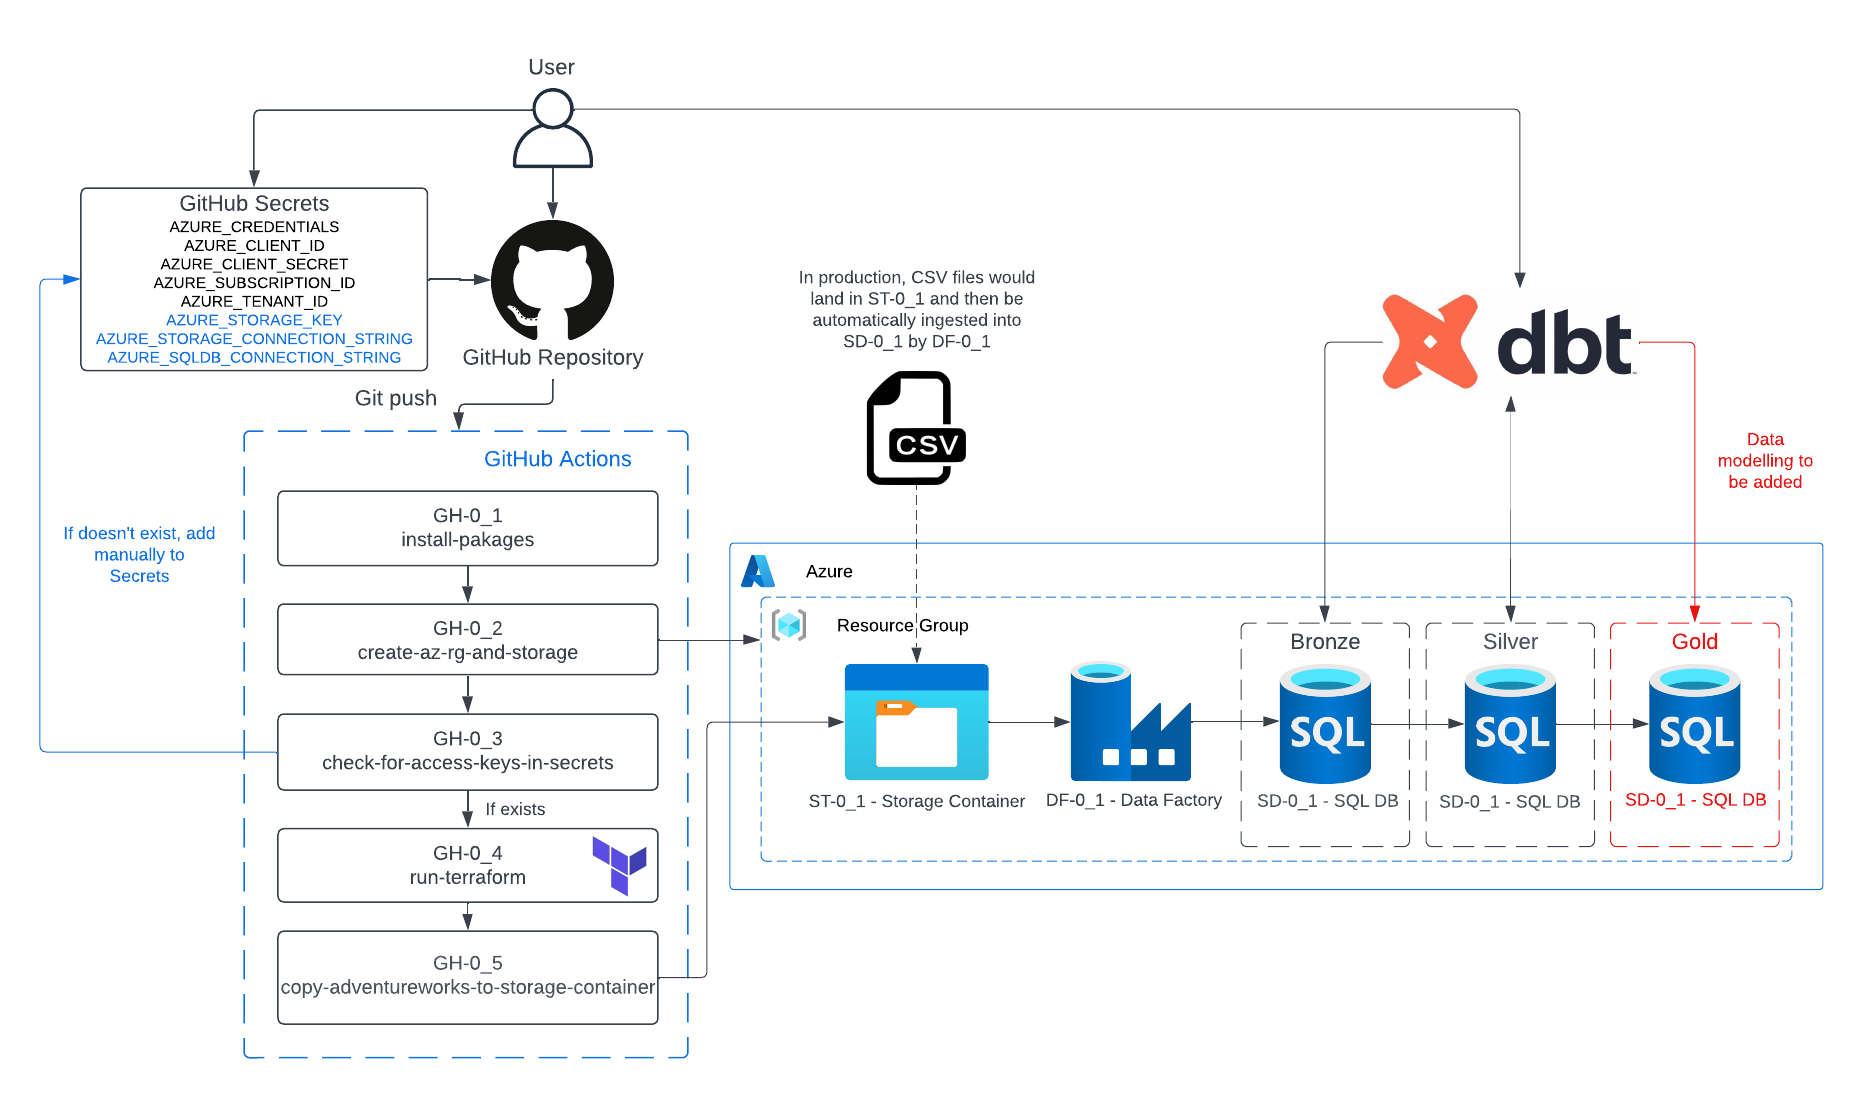
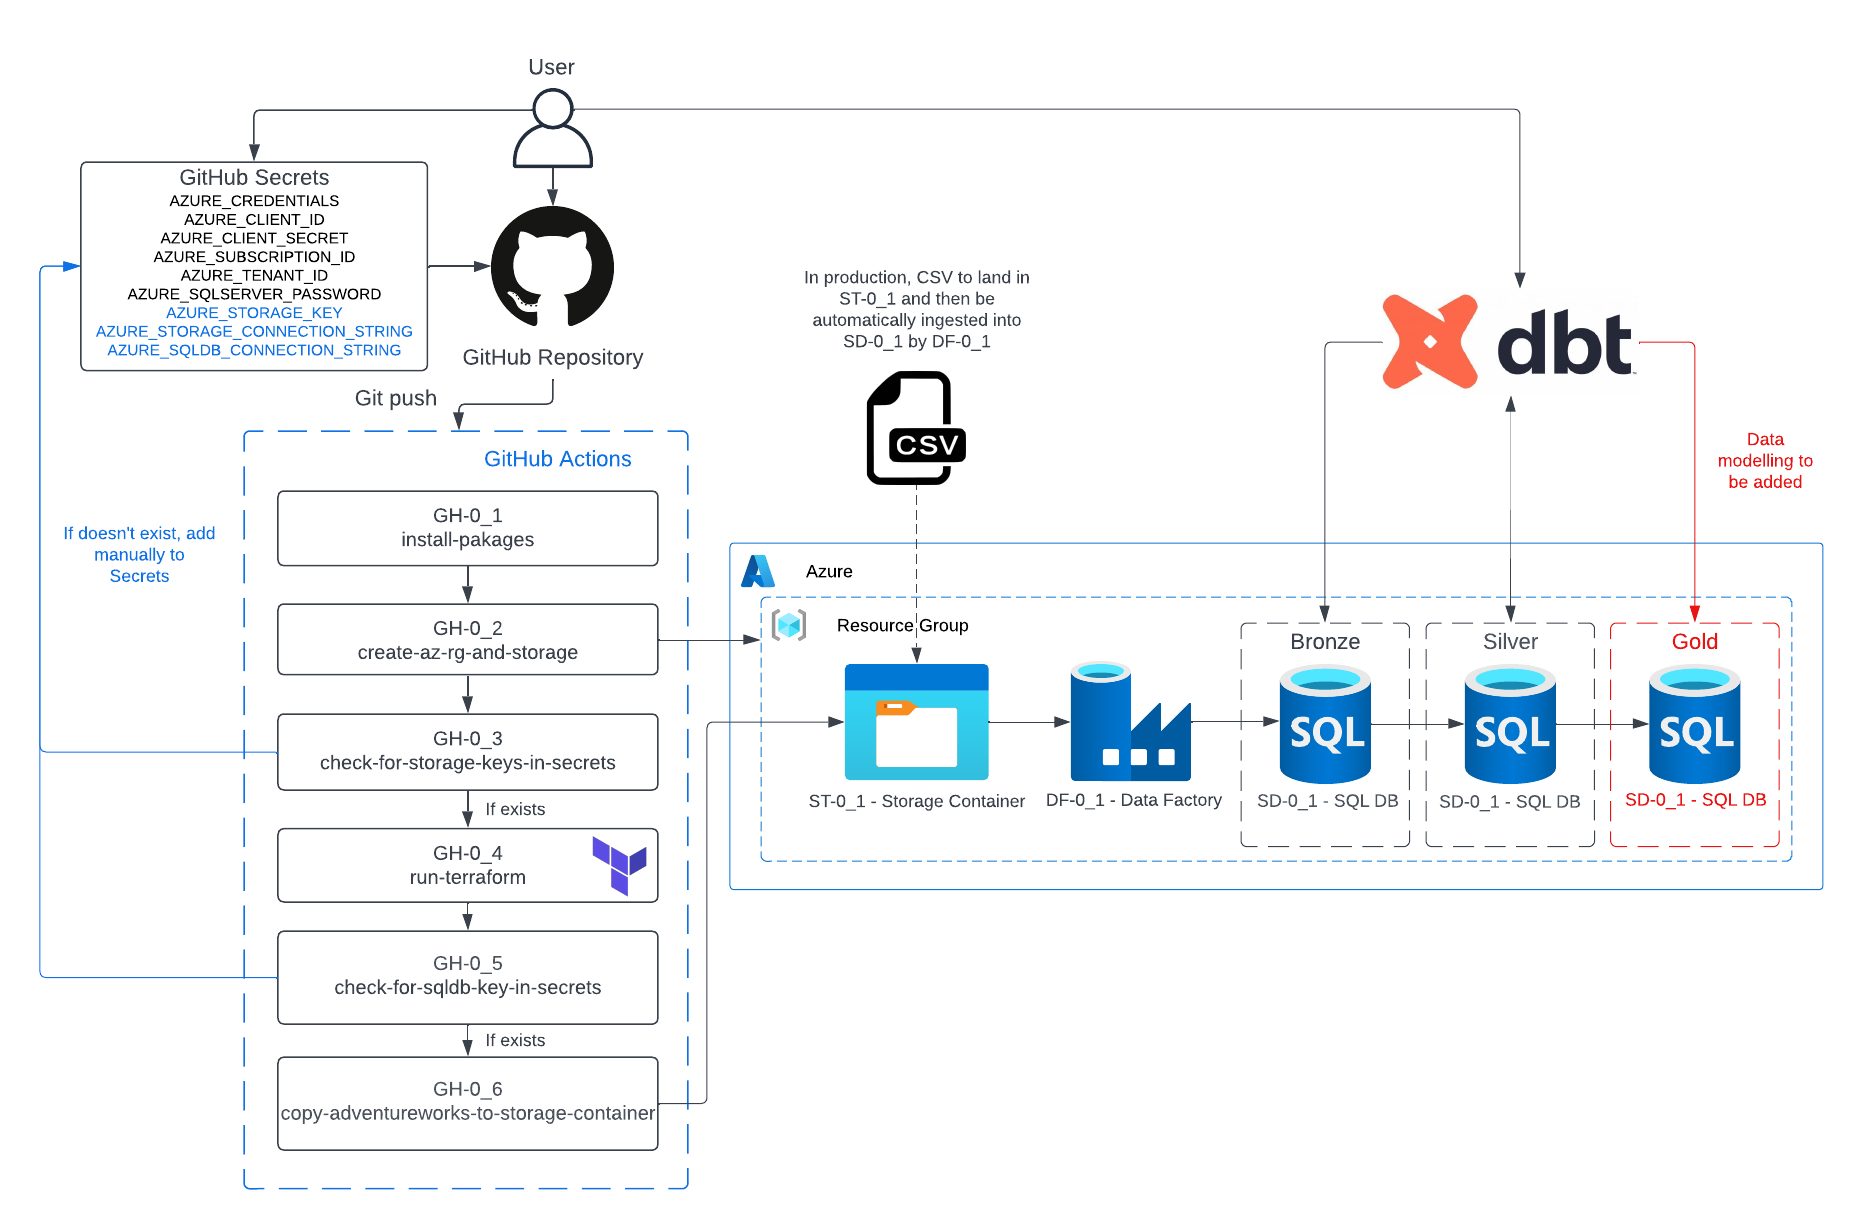
Updated actions and readme

diff --git a/README.md b/README.md
@@ -140,22 +140,22 @@ Key and connection string security is provided completely by GitHub Secrets. The
 * _AZURE_CREDENTIALS_ - Used to log into Azure via the Azure CLI with a service principle in GitHub Actions. The Azure credentials consists of 
   "clientId", "clientSecret", "subscriptionId" and "tenantId". See [link](https://learn.microsoft.com/en-us/azure/developer/github/connect-from-azure?tabs=azure-portal%2Cwindows) for more information. 
 
-* _AZURE_CLIENT_ID_ - Taken from AZURE_CREDENTIALS above and used for Terraform init and apply.  
+* _AZURE_CLIENT_ID_ - Taken from AZURE_CREDENTIALS above and used for Terraform init and apply
 
-* _AZURE_CLIENT_SECRET_ - Taken from AZURE_CREDENTIALS above and used for Terraform init and apply. 
+* _AZURE_CLIENT_SECRET_ - Taken from AZURE_CREDENTIALS above and used for Terraform init and apply 
 
-* _AZURE_SUBSCRIPTION_ID_ - Taken from AZURE_CREDENTIALS above and used for Terraform init and apply. 
+* _AZURE_SUBSCRIPTION_ID_ - Taken from AZURE_CREDENTIALS above and used for Terraform init and apply
 
-* _AZURE_TENANT_ID_ - Taken from AZURE_CREDENTIALS above and used for Terraform init and apply. 
+* _AZURE_TENANT_ID_ - Taken from AZURE_CREDENTIALS above and used for Terraform init and apply
 
 * _AZURE_SQLSERVER_PASSWORD_ - Used to define the password for SQL Server 
 
-* _AZURE_STORAGE_KEY_ - Used to copy initial AdventureWorks CSV files from the GitHub repository to Azure storage container (GH-0_4)
+* _AZURE_STORAGE_KEY_ - Used to copy initial AdventureWorks CSV files from the GitHub repository to Azure storage container (GH-0_6)
 
-* _AZURE_STORAGE_CONNECTION_STRING_ - Used by Terraform and ADF to establish a linked service to the storage container that contains the CSV files.
+* _AZURE_STORAGE_CONNECTION_STRING_ - Used by Terraform and ADF to establish a linked service to the storage container that contains the CSV files 
 
 * _AZURE_SQLDB_CONNECTION_STRING_ - Used by Terraform and ADF to establish a linked service to the SQL Database that is to contain the CSV file 
-  raw data.
+  raw data 
 
 **Encryption**
 
